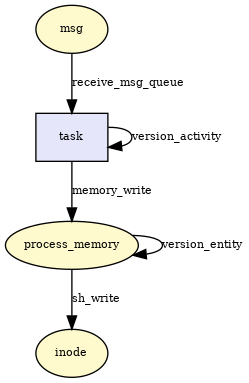
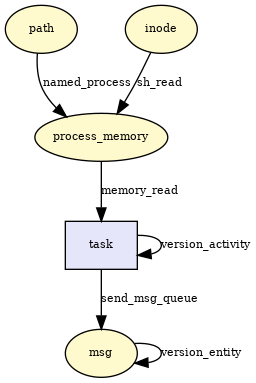
hand msgrcv and msgsnd

Changed region(s): [[0.0, 0.0, 0.9839, 1.0], [0.4779, 0.0, 0.7871, 0.1723]]

diff --git a/scripts/graphs.rb b/scripts/graphs.rb
@@ -12,14 +12,41 @@ end
 str = ''
 hook = ''
 File.readlines('./security/provenance/hooks.c').each do |line|
+  if  line.include?('int __mq_msgsnd(') || line.include?('int __mq_msgrcv(')
+    g.from_string(str) unless str == ''
+    dot = g.get_dot unless str == ''
+    File.open('/tmp/'+hook+'.dot', 'w') { |f| f.write(dot) } unless str == ''
+    system('dot -Tpng /tmp/'+hook+'.dot -o ./docs/img/'+hook+'.png')  unless str == ''
+    if hook == 'socket_sendmsg' || hook == 'socket_recvmsg'
+      system('dot -Tpng /tmp/'+hook+'.dot -o ./docs/img/'+hook+'_always.png')  unless str == ''
+    end
+    g.reset unless str == ''
+    if line.include?('__mq_msgsnd(')
+      hook = '__mq_msgsnd'
+    elsif line.include?('__mq_msgrcv(')
+      hook = '__mq_msgrcv'
+    end
+    str = ''
+  end
   hooks.each do |h|
     if line.include?('provenance_'+h+'(')
       g.from_string(str) unless str == ''
       dot = g.get_dot unless str == ''
       File.open('/tmp/'+hook+'.dot', 'w') { |f| f.write(dot) } unless str == ''
-      system('dot -Tpng /tmp/'+hook+'.dot -o ./docs/img/'+hook+'.png')  unless str == ''
+      puts hook
       if hook == 'socket_sendmsg' || hook == 'socket_recvmsg'
+        system('dot -Tpng /tmp/'+hook+'.dot -o ./docs/img/'+hook+'.png')  unless str == ''
         system('dot -Tpng /tmp/'+hook+'.dot -o ./docs/img/'+hook+'_always.png')  unless str == ''
+      elsif hook == '__mq_msgsnd'
+        system('dot -Tpng /tmp/'+hook+'.dot -o ./docs/img/msg_queue_msgsnd.png')  unless str == ''
+        system('dot -Tpng /tmp/'+hook+'.dot -o ./docs/img/mq_timedsend.png')  unless str == ''
+      elsif hook == '__mq_msgrcv'
+        system('dot -Tpng /tmp/'+hook+'.dot -o ./docs/img/msg_queue_msgrcv.png')  unless str == ''
+        system('dot -Tpng /tmp/'+hook+'.dot -o ./docs/img/mq_timedreceive.png')  unless str == ''
+      elsif hook == 'msg_queue_msgrcv' || hook == 'mq_timedreceive' || hook == 'mq_timedsend' || hook == 'msg_queue_msgsnd'
+        puts 'Skipping '+hook
+      else
+        system('dot -Tpng /tmp/'+hook+'.dot -o ./docs/img/'+hook+'.png')  unless str == ''
       end
       g.reset unless str == ''
       hook = h
